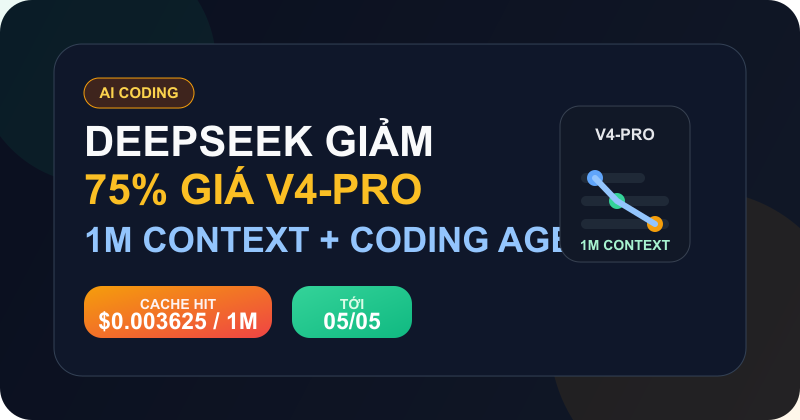
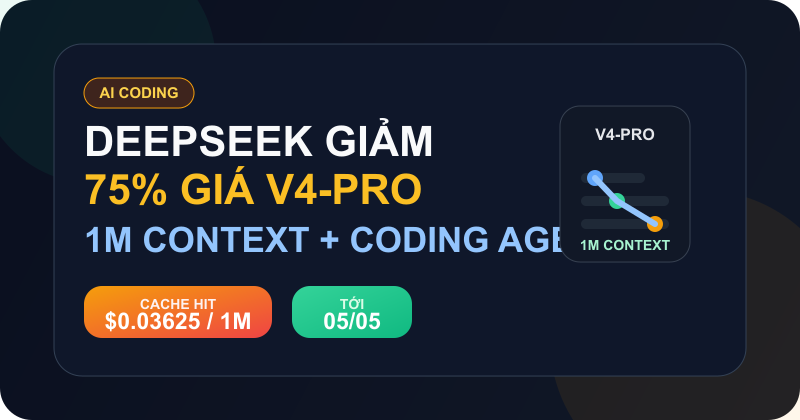
sửa giá cache hit bài deepseek v4 pro

Changed region(s): [[0.125, 0.7429, 0.3438, 0.8048]]

diff --git a/apps/web/public/blog/deepseek-v4-pro-75-percent-off-api/index.html b/apps/web/public/blog/deepseek-v4-pro-75-percent-off-api/index.html
@@ -3,8 +3,8 @@
 <head>
     <meta charset="UTF-8">
     <meta name="viewport" content="width=device-width, initial-scale=1.0">
-    <title>DeepSeek Giảm 75% Giá V4-Pro API Tới 5/5: 1M Context, Cache Hit Chỉ $0.003625 - Escbase</title>
-    <meta name="description" content="DeepSeek giảm 75% giá V4-Pro API tới 5/5/2026, kéo giá cache hit xuống $0.003625, cache miss còn $0.435 và output còn $0.87 mỗi 1 triệu token. Điểm đáng chú ý không chỉ là rẻ, mà là DeepSeek đang đóng gói V4-Pro như một model dành thẳng cho Claude Code, OpenCode và OpenClaw workflows.">
+    <title>DeepSeek Giảm 75% Giá V4-Pro API Tới 5/5: Cache Hit Chỉ $0.03625, 1M Context Cho Agent - Escbase</title>
+    <meta name="description" content="DeepSeek giảm 75% giá V4-Pro API tới 5/5/2026, kéo giá cache hit xuống $0.03625, cache miss còn $0.435 và output còn $0.87 mỗi 1 triệu token. Điểm đáng chú ý không chỉ là rẻ, mà là DeepSeek đang đóng gói V4-Pro như một model dành thẳng cho Claude Code, OpenCode và OpenClaw workflows.">
     <meta property="og:title" content="DeepSeek Giảm 75% Giá V4-Pro API Tới 5/5">
     <meta property="og:description" content="DeepSeek tung giảm giá 75% cho V4-Pro API tới 5/5, đồng thời đẩy mạnh tích hợp với Claude Code, OpenCode và OpenClaw. Đây không chỉ là khuyến mãi ngắn hạn, mà là cú đẩy mạnh để giành developer mindshare ở mảng coding agents và long-context workflows.">
     <meta property="og:image" content="https://escbase.xyz/images/deepseek-v4-pro-75-percent-off-api-thumb.png">
@@ -43,7 +43,7 @@
         <article>
             <header class="article-header">
                 <span class="category-badge"><i class="fas fa-code"></i> AI Coding</span>
-                <h1>DeepSeek Giảm 75% Giá V4-Pro API Tới 5/5: 1M Context, Cache Hit Chỉ $0.003625</h1>
+                <h1>DeepSeek Giảm 75% Giá V4-Pro API Tới 5/5: Cache Hit Chỉ $0.03625, 1M Context Cho Agent</h1>
                 <div class="meta">
                     <span><i class="far fa-calendar"></i> 26/04/2026</span>
                     <span><i class="far fa-clock"></i> 8 phút đọc</span>
@@ -54,7 +54,7 @@
             <div class="article-content">
                 <div class="highlight-box">
                     <h4>TL;DR</h4>
-                    <p style="margin-bottom:0"><strong>DeepSeek đang giảm 75% giá cho V4-Pro API tới 15:59 UTC ngày 5/5/2026</strong>, kéo giá xuống còn <strong>$0.003625 cho 1 triệu input token cache hit</strong>, <strong>$0.435 cho cache miss</strong> và <strong>$0.87 cho output</strong>. Điểm quan trọng hơn chuyện rẻ là DeepSeek đang đóng gói V4-Pro như một model dành thẳng cho các workflow coding agents: <strong>Claude Code</strong>, <strong>OpenCode</strong> và <strong>OpenClaw</strong>, kèm hỗ trợ <strong>1M context</strong> qua biến thể <code>deepseek-v4-pro[1m]</code>.</p>
+                    <p style="margin-bottom:0"><strong>DeepSeek đang giảm 75% giá cho V4-Pro API tới 15:59 UTC ngày 5/5/2026</strong>, kéo giá xuống còn <strong>$0.03625 cho 1 triệu input token cache hit</strong>, <strong>$0.435 cho cache miss</strong> và <strong>$0.87 cho output</strong>. Điểm quan trọng hơn chuyện rẻ là DeepSeek đang đóng gói V4-Pro như một model dành thẳng cho các workflow coding agents: <strong>Claude Code</strong>, <strong>OpenCode</strong> và <strong>OpenClaw</strong>, kèm hỗ trợ <strong>1M context</strong> qua biến thể <code>deepseek-v4-pro[1m]</code>.</p>
                 </div>
 
                 <img src="/images/deepseek-v4-pro-75-percent-off-api-cover.jpg" alt="Promo giảm giá 75% cho DeepSeek V4 Pro API" class="promo-image" />
@@ -66,7 +66,7 @@
                 <div class="pricing-grid">
                     <div class="pricing-card">
                         <div class="label">Input token — cache hit</div>
-                        <div class="value">$0.003625</div>
+                        <div class="value">$0.03625</div>
                         <div class="sub">mỗi 1M token, rẻ hơn giá gốc 4 lần sau khi giảm 75%</div>
                     </div>
                     <div class="pricing-card">
@@ -81,7 +81,7 @@
                     </div>
                 </div>
 
-                <p>Điểm dễ bị bỏ qua nhất nằm ở giá <strong>cache hit</strong>. Theo docs chính thức, nếu prompt/context của bạn được tái sử dụng đúng cách, giá input chỉ còn <strong>$0.003625/1M token</strong>. Đây là mức gần như đẩy long-context agent loops sang một bài toán tối ưu kiến trúc nhiều hơn là tối ưu budget.</p>
+                <p>Điểm dễ bị bỏ qua nhất nằm ở giá <strong>cache hit</strong>. Theo docs chính thức, nếu prompt/context của bạn được tái sử dụng đúng cách, giá input chỉ còn <strong>$0.03625/1M token</strong>. Đây là mức gần như đẩy long-context agent loops sang một bài toán tối ưu kiến trúc nhiều hơn là tối ưu budget.</p>
 
                 <h2>Không chỉ giảm giá, DeepSeek còn đóng gói thẳng cho hệ coding agents</h2>
                 <p>Tweet của DeepSeek không chỉ ghi giá mới, mà còn ghi rất rõ các điểm tích hợp:</p>
@@ -115,7 +115,7 @@
                             <tr>
                                 <td>Input cache hit / 1M</td>
                                 <td>$0.0028</td>
-                                <td>$0.003625</td>
+                                <td>$0.03625</td>
                                 <td>$0.0145</td>
                             </tr>
                             <tr>
@@ -146,7 +146,7 @@
                 <p>Phản ứng cộng đồng dưới post khá thú vị, và phần lớn xoay quanh ba ý lớn.</p>
 
                 <h3>1. Thứ mọi người chú ý nhất là cache hit price</h3>
-                <p>Nhiều reply không quan tâm headline “75% off” bằng con số <strong>$0.003625/1M input token cache hit</strong>. Lý do đơn giản: với những hệ dùng prompt lặp, long-lived system prompt hoặc RAG/document header tái sử dụng, đó mới là nơi tổng chi phí thật sự tụt mạnh nhất.</p>
+                <p>Nhiều reply không quan tâm headline “75% off” bằng con số <strong>$0.03625/1M input token cache hit</strong>. Lý do đơn giản: với những hệ dùng prompt lặp, long-lived system prompt hoặc RAG/document header tái sử dụng, đó mới là nơi tổng chi phí thật sự tụt mạnh nhất.</p>
 
                 <h3>2. 1M context đang được nhìn như vũ khí cho agent workflows</h3>
                 <p>Một số dev nói thẳng họ để ý nhất là biến thể <code>deepseek-v4-pro[1m]</code>, vì nó đổi bài toán cho các tác vụ như đọc codebase lớn, review repository vài trăm nghìn token hay orchestration nhiều subagent. Tức là cộng đồng không chỉ nhìn đây là “model rẻ”, mà là <strong>model rẻ đúng loại workload đang hot</strong>.</p>
